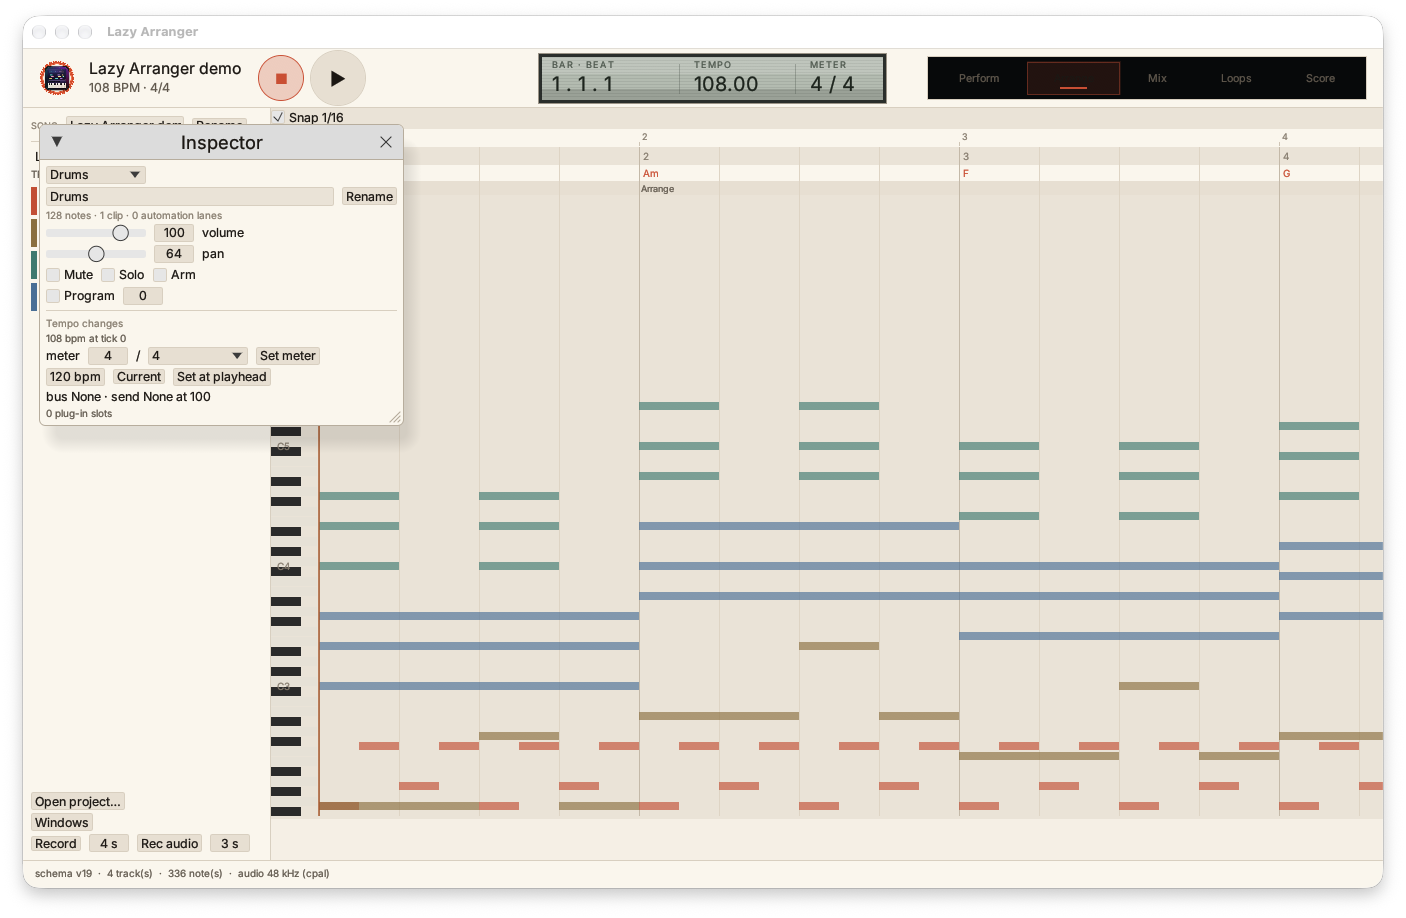
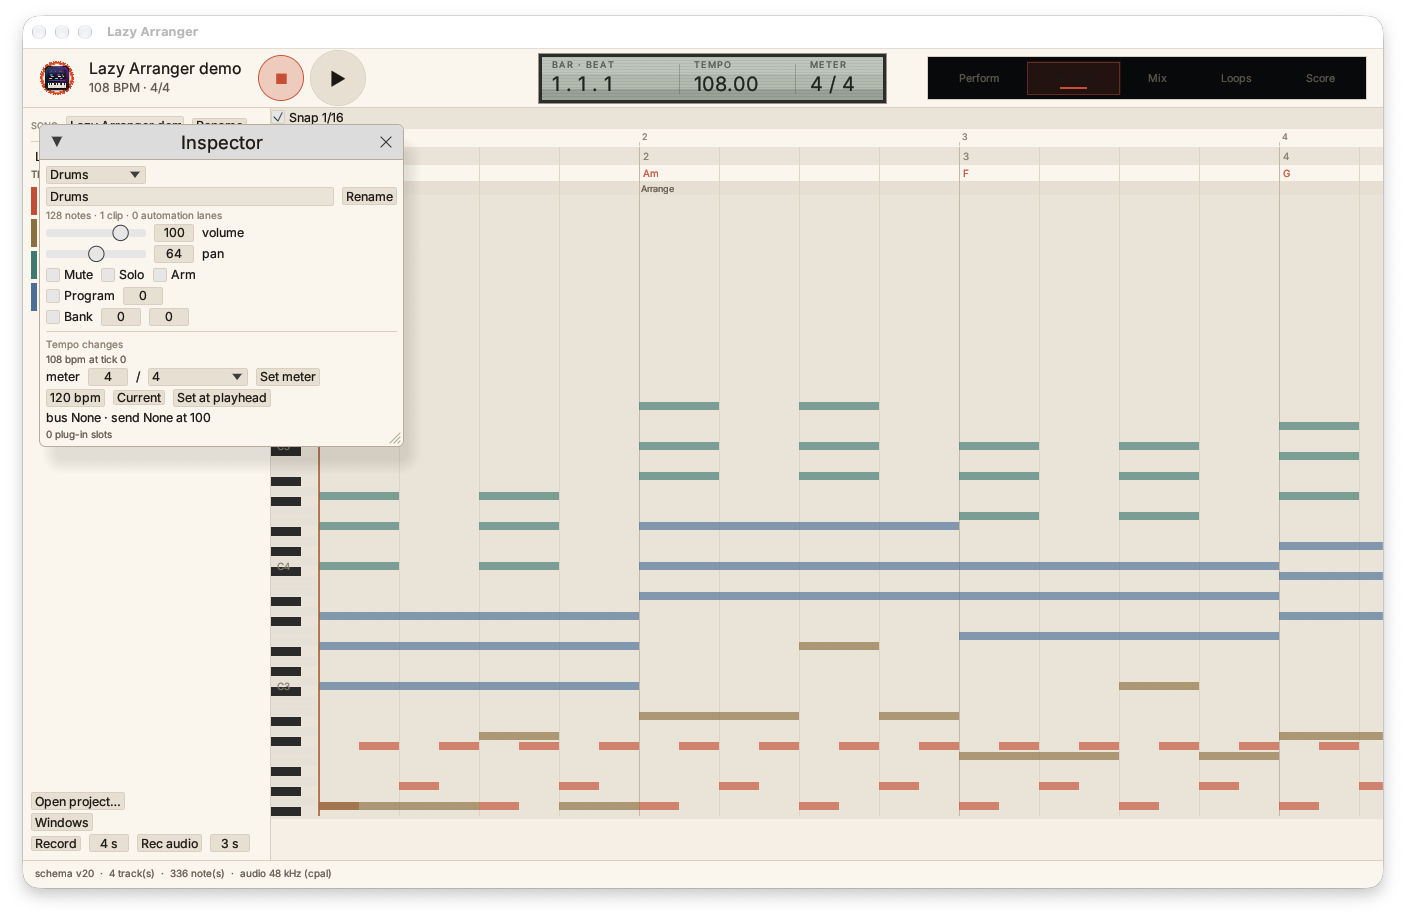
feat(inspector): edit track bank select
Adds Command::SetTrackBank and Editor::set_track_bank, a Bank MSB/LSB row in the
Inspector and an undo test; refreshes the Inspector capture and records the
schema-v20 CI run.

654 tests pass; clippy, fmt and rustdoc clean; the shell ran 6 s without a
panic.

Changed region(s): [[0.0306, 0.3355, 0.3058, 0.5185], [0.0612, 0.9455, 0.2447, 0.976]]

diff --git a/crates/app-commands/src/lib.rs b/crates/app-commands/src/lib.rs
@@ -18,7 +18,7 @@ pub mod style_import;
 
 use music_core::{Channel, Chord, Pitch, TempoMap, Tick, Velocity};
 use project::provenance;
-use project::song::{ChordEvent, Clip, Note, Song, Track};
+use project::song::{BankSelect, ChordEvent, Clip, Note, Song, Track};
 use project::{NoteId, ProjectError, ProjectFile, Severity, TrackId};
 use thiserror::Error;
 
@@ -196,6 +196,13 @@ pub enum Command {
         /// Program number, or `None` to let the exporter choose.
         program: Option<u8>,
     },
+    /// Choose the bank-select pair for a track's program, or clear it.
+    SetTrackBank {
+        /// The track.
+        track: TrackId,
+        /// Bank select, or `None` for the default bank.
+        bank: Option<BankSelect>,
+    },
     /// Replace the song's chords as one edit.
     SetChords {
         /// The new chord list, sorted by tick.
@@ -270,6 +277,7 @@ impl Command {
             Self::RemoveTrack { .. } => "remove track",
             Self::SetChords { .. } => "set chords",
             Self::SetTrackProgram { .. } => "set track program",
+            Self::SetTrackBank { .. } => "set track bank",
             Self::SetTrackFlags { .. } => "set track flags",
             Self::SetTrackGain { .. } => "set track gain",
             Self::SetAutomation { .. } => "set automation",
@@ -885,6 +893,10 @@ impl EditSession {
                 track: *track,
                 program: self.track(*track)?.program,
             },
+            Command::SetTrackBank { track, .. } => Command::SetTrackBank {
+                track: *track,
+                bank: self.track(*track)?.bank,
+            },
             Command::SetChords { .. } => Command::SetChords {
                 chords: self.song().chords.clone(),
             },
@@ -1125,6 +1137,9 @@ impl EditSession {
             Command::SetTrackProgram { track, program } => {
                 self.track_mut(*track)?.program = *program;
             }
+            Command::SetTrackBank { track, bank } => {
+                self.track_mut(*track)?.bank = *bank;
+            }
             Command::SetChords { chords } => {
                 self.project.song.chords = chords.clone();
                 self.project.song.chords.sort_by_key(|event| event.tick);
@@ -1255,6 +1270,10 @@ fn describe(command: &Command) -> String {
         Command::SetTrackProgram { track, program } => match program {
             Some(value) => format!("set track {track} program {value}"),
             None => format!("clear track {track} program"),
+        },
+        Command::SetTrackBank { track, bank } => match bank {
+            Some(bank) => format!("set track {track} bank {}/{}", bank.msb, bank.lsb),
+            None => format!("clear track {track} bank"),
         },
         Command::SetMarkers { markers } => format!("set {} marker(s)", markers.len()),
         Command::SetSceneNames { names } => format!("set {} scene name(s)", names.len()),

diff --git a/apps/desktop/src/app.rs b/apps/desktop/src/app.rs
@@ -2457,6 +2457,7 @@ impl ShellApp {
                     track.soloed,
                     track.armed,
                     track.program,
+                    track.bank,
                     track.notes.len(),
                     track.clips.len(),
                     track.audio.clone(),
@@ -2476,6 +2477,7 @@ impl ShellApp {
             mut soloed,
             mut armed,
             program,
+            bank,
             notes,
             clips,
             audio,
@@ -2580,6 +2582,26 @@ impl ShellApp {
                     if toggled || changed {
                         let value = enabled.then_some(number as u8);
                         if let Err(error) = self.editor.set_track_program(track_id, value) {
+                            self.status = Some(error);
+                        }
+                    }
+                });
+                ui.horizontal(|ui| {
+                    let mut enabled = bank.is_some();
+                    let mut msb = i32::from(bank.map_or(0, |bank| bank.msb));
+                    let mut lsb = i32::from(bank.map_or(0, |bank| bank.lsb));
+                    let toggled = ui.checkbox(&mut enabled, "Bank").changed();
+                    let changed = ui
+                        .add(egui::DragValue::new(&mut msb).range(0..=127))
+                        .changed()
+                        | ui.add(egui::DragValue::new(&mut lsb).range(0..=127))
+                            .changed();
+                    if toggled || changed {
+                        let value = enabled.then_some(project::song::BankSelect {
+                            msb: u8::try_from(msb).unwrap_or(0),
+                            lsb: u8::try_from(lsb).unwrap_or(0),
+                        });
+                        if let Err(error) = self.editor.set_track_bank(track_id, value) {
                             self.status = Some(error);
                         }
                     }

diff --git a/apps/desktop/src/editor.rs b/apps/desktop/src/editor.rs
@@ -867,6 +867,23 @@ impl Editor {
         Ok(())
     }
 
+    /// Sets or clears a track's bank select.
+    ///
+    /// # Errors
+    ///
+    /// Returns a message when the command is rejected.
+    pub fn set_track_bank(
+        &mut self,
+        track: TrackId,
+        bank: Option<project::song::BankSelect>,
+    ) -> Result<(), String> {
+        self.session
+            .apply(app_commands::Command::SetTrackBank { track, bank })
+            .map_err(|error| error.to_string())?;
+        self.dirty = true;
+        Ok(())
+    }
+
     /// Sets or clears a track's keyboard program.
     ///
     /// # Errors
@@ -2030,6 +2047,22 @@ mod tests {
         assert_eq!(editor.song().tracks[0].program, Some(48));
         editor.set_track_program(track, None).expect("clear");
         assert!(editor.song().tracks[0].program.is_none());
+        editor
+            .set_track_bank(track, Some(project::song::BankSelect { msb: 63, lsb: 1 }))
+            .expect("bank");
+        assert_eq!(
+            editor.song().tracks[0].bank,
+            Some(project::song::BankSelect { msb: 63, lsb: 1 })
+        );
+        editor.set_track_bank(track, None).expect("clear bank");
+        assert!(editor.song().tracks[0].bank.is_none());
+        editor.undo();
+        assert_eq!(
+            editor.song().tracks[0].bank,
+            Some(project::song::BankSelect { msb: 63, lsb: 1 })
+        );
+        assert!(editor.undo());
+        assert_eq!(editor.song().tracks[0].program, None);
         assert!(editor.undo());
         assert_eq!(editor.song().tracks[0].program, Some(48));
     }

diff --git a/docs/architecture/contracts.md b/docs/architecture/contracts.md
@@ -20,7 +20,7 @@ section below is a row, so nothing is skipped. Status: **verified**,
 | 11 | Beat view | partial | Four drum rows by sixteen steps with off/soft/normal/loud cycling, read from and written to a bar as one undo step, B opens the grid. rows have C/P/X copy, paste and clear buttons (model row/set_row/clear_row); patterns cover 1 or 2 bars with the span cleared and rewritten; Put-in-bars writes the pattern across four bars as one edit; no scrolling long clips |
 | 12 | Clip grid | partial | Scenes of N bars, slots, a bar-quantised launcher with waiting/cancel/log, scene recording to the timeline as undoable edits, `get_clip_grid`. Loops view shows scene rows and track slots, queues on click and records a take. The grid shows track column headers and a Rename button; right-click a slot to clear, set 1/2 bars or copy to the playhead. Scene names persist and can be renamed; slot length, clear and copy-to-tick work and are exposed as `edit_slot`. No audio loops or Launchkey mapping |
 | 13 | Smart chords | partial | Chord parsing, transposition, progression text, roman numerals in the chosen key, chord lane with K entry, 16 key-aware pads, and a suggestion function with dialog buttons. Reharmonize rules and dialog. Find Chords from the Music (pitch-class recognition, slash bass). Inversions/voicings as ascending pitch sets with A/B WAV audition (`voicing C --out-dir` wrote a.wav and b.wav). A Settings toggle detects chords after MIDI recording and a Launchkey pad preset maps notes 36-51 to pad audition; no real-time chord capture |
-| 14 | Styles | partial | Yamaha open, import, compile on chords, **save container (SFF1/SFF2, real 15-section style rewritten)**. Track program and bank-select events now round-trip through the SMF reader/writer and the style writer; Korg, live sections, rules editor UI, style-from-clips, XG voices and the SInt setup region remain absent. Catalog resolution by number or name (`style-resolve`) matched a real library entry; a PCG scanner now recognises the KORG marker and model name only, with no program or combi decoding |
+| 14 | Styles | partial | Yamaha open, import, compile on chords, **save container (SFF1/SFF2, real 15-section style rewritten)**. Track program and bank-select events now round-trip through the SMF reader/writer and the style writer and are editable from the Inspector Bank row; Korg, live sections, rules editor UI, style-from-clips, XG voices and the SInt setup region remain absent. Catalog resolution by number or name (`style-resolve`) matched a real library entry; a PCG scanner now recognises the KORG marker and model name only, with no program or combi decoding |
 | 15 | Style from Audio and Link | partial | Link→monophonic MIDI; no style output, no match scores |
 | 16 | Score view | partial | MusicXML export/import with `<harmony>` chords, drum instrument ids, `<sound dynamics>`, slurs and a round-trip audit. On the demo tracks, chords (16), lyrics (2), marks (2), drums and the pitched detail are preserved (186 = 186 after merging 22 ties). A style-derived project with mixed drum/pitched tracks and overlapping notes now keeps all 1,423 pitched notes (counts and tie merges), but one chord-group note starts at a different tick inside an overlap; `<backup>` was added for overlaps, and MusicXML still cannot express every simultaneous overlap we hold, which is recorded as a limitation plus a toolkit-independent layout engine (pages, systems, measures, positioned notes, CLI report). An egui page canvas renders staff lines, barlines, noteheads, page navigation and zoom from the layout. Key detection, spelling, accidentals, canvas, vector PDF, per-pitch ties and a lyric line (40-bar two-page acceptance test). Dynamics and articulations are marks in schema v11, exchanged as MusicXML directions and drawn by both renderers. Note entry: with Note entry enabled, a click on the score inserts a note at a quarter-quantised tick and the staff pitch through one undoable command. A grand-staff toggle, beams, tuplet brackets, ties, rests in gaps/empty measures, augmentation dots (notes and rests) and articulation glyphs now draw on canvas and PDF; phrase slurs (schema v18) draw as curves, are exposed by `get_slurs`/`set_slurs` and round-trip as MusicXML `<slur>` notations; a drum track gets a one-line percussion staff with x noteheads on canvas and PDF; lyrics shift right when crowded; chord names are drawn above the staff on canvas and PDF, common major/minor/seventh chords get guitar frames (slash chords or unlisted qualities get none); the Score view has a path field, Save PDF and a Print dialog with printer, copies and page ranges via `lp`; chord names and guitar frames draw on canvas and PDF with a top reserve, the song title draws inside the page margin, one lyric per chord tick, PDF text uses the dark fill; four 4/4 measures fit a system and the song meter draws at each system start, measure numbers draw above the staff, `docs/audit/score-page.png` shows the balanced layout, and a headless test checks canvas text; and a headless egui test verifies the canvas title, chord name and measure number shapes; dense rhythms widen their measures and crowded accidentals shift left; Shift-drag resizes a note's duration (quarter-quantised); no vertical rest/dot collision avoidance; printing uses `lp`, not an OS print panel |
 | 17 | Mixer and buses | partial | Tracks carry fader, pan, mute/solo and automation; buses (schema v13) have volume and pan, tracks route to a bus and can send a copy at a level, and the render sums bus buffers after the tracks. Mix view shows bus rows with volume/pan/remove and an Add bus action plus a per-track routing picker (`docs/audit/mix.png`). Mix rows add a send-bus picker and send-level slider over the same routing command; Loops slots have a right-click menu for clear, one-bar length and copy to playhead. Master gain and a soft limiter apply to playback and `export-audio` (`--gain-db`, `--no-limiter`), and the export prints peak/RMS; master reverb and chorus wet amounts (feedback-delay reverb and modulated-delay chorus, applied after gain before the limiter) are settable in the Mixer and Settings and used by playback/`export-audio --reverb/--chorus`; master peak/RMS bars and per-track peak badges draw while playing (track levels come from offline stems; other master effects absent) |
@@ -1021,3 +1021,7 @@ keeps CC0/CC32 before the first program and the writer emits them before the
 program; the style writer therefore preserves bank select too. A version 19
 document migrates with no bank, and the SMF/style round-trip tests assert
 `BankSelect { msb: 63, lsb: 1 }`.
+
+`Command::SetTrackBank` sets/clears `Track.bank`; the Inspector shows a Bank row
+with MSB/LSB drag values and the editor test covers undo. The refreshed capture
+is `docs/audit/inspector.png`.

diff --git a/docs/audit/cpp-features-crosscheck.md b/docs/audit/cpp-features-crosscheck.md
@@ -20,7 +20,7 @@ section below is a row, so nothing is skipped. Status: **verified**,
 | 11 | Beat view | partial | Four drum rows by sixteen steps with off/soft/normal/loud cycling, read from and written to a bar as one undo step, B opens the grid. rows have C/P/X copy, paste and clear buttons (model row/set_row/clear_row); patterns cover 1 or 2 bars with the span cleared and rewritten; Put-in-bars writes the pattern across four bars as one edit; no scrolling long clips |
 | 12 | Clip grid | partial | Scenes of N bars, slots, a bar-quantised launcher with waiting/cancel/log, scene recording to the timeline as undoable edits, `get_clip_grid`. Loops view shows scene rows and track slots, queues on click and records a take. The grid shows track column headers and a Rename button; right-click a slot to clear, set 1/2 bars or copy to the playhead. Scene names persist and can be renamed; slot length, clear and copy-to-tick work and are exposed as `edit_slot`. No audio loops or Launchkey mapping |
 | 13 | Smart chords | partial | Chord parsing, transposition, progression text, roman numerals in the chosen key, chord lane with K entry, 16 key-aware pads, and a suggestion function with dialog buttons. Reharmonize rules and dialog. Find Chords from the Music (pitch-class recognition, slash bass). Inversions/voicings as ascending pitch sets with A/B WAV audition (`voicing C --out-dir` wrote a.wav and b.wav). A Settings toggle detects chords after MIDI recording and a Launchkey pad preset maps notes 36-51 to pad audition; no real-time chord capture |
-| 14 | Styles | partial | Yamaha open, import, compile on chords, **save container (SFF1/SFF2, real 15-section style rewritten)**. Track program and bank-select events now round-trip through the SMF reader/writer and the style writer; Korg, live sections, rules editor UI, style-from-clips, XG voices and the SInt setup region remain absent. Catalog resolution by number or name (`style-resolve`) matched a real library entry; a PCG scanner now recognises the KORG marker and model name only, with no program or combi decoding |
+| 14 | Styles | partial | Yamaha open, import, compile on chords, **save container (SFF1/SFF2, real 15-section style rewritten)**. Track program and bank-select events now round-trip through the SMF reader/writer and the style writer and are editable from the Inspector Bank row; Korg, live sections, rules editor UI, style-from-clips, XG voices and the SInt setup region remain absent. Catalog resolution by number or name (`style-resolve`) matched a real library entry; a PCG scanner now recognises the KORG marker and model name only, with no program or combi decoding |
 | 15 | Style from Audio and Link | partial | Link→monophonic MIDI; no style output, no match scores |
 | 16 | Score view | partial | MusicXML export/import with `<harmony>` chords, drum instrument ids, `<sound dynamics>`, slurs and a round-trip audit. On the demo tracks, chords (16), lyrics (2), marks (2), drums and the pitched detail are preserved (186 = 186 after merging 22 ties). A style-derived project with mixed drum/pitched tracks and overlapping notes now keeps all 1,423 pitched notes (counts and tie merges), but one chord-group note starts at a different tick inside an overlap; `<backup>` was added for overlaps, and MusicXML still cannot express every simultaneous overlap we hold, which is recorded as a limitation plus a toolkit-independent layout engine (pages, systems, measures, positioned notes, CLI report). An egui page canvas renders staff lines, barlines, noteheads, page navigation and zoom from the layout. Key detection, spelling, accidentals, canvas, vector PDF, per-pitch ties and a lyric line (40-bar two-page acceptance test). Dynamics and articulations are marks in schema v11, exchanged as MusicXML directions and drawn by both renderers. Note entry: with Note entry enabled, a click on the score inserts a note at a quarter-quantised tick and the staff pitch through one undoable command. A grand-staff toggle, beams, tuplet brackets, ties, rests in gaps/empty measures, augmentation dots (notes and rests) and articulation glyphs now draw on canvas and PDF; phrase slurs (schema v18) draw as curves, are exposed by `get_slurs`/`set_slurs` and round-trip as MusicXML `<slur>` notations; a drum track gets a one-line percussion staff with x noteheads on canvas and PDF; lyrics shift right when crowded; chord names are drawn above the staff on canvas and PDF, common major/minor/seventh chords get guitar frames (slash chords or unlisted qualities get none); the Score view has a path field, Save PDF and a Print dialog with printer, copies and page ranges via `lp`; chord names and guitar frames draw on canvas and PDF with a top reserve, the song title draws inside the page margin, one lyric per chord tick, PDF text uses the dark fill; four 4/4 measures fit a system and the song meter draws at each system start, measure numbers draw above the staff, `docs/audit/score-page.png` shows the balanced layout, and a headless test checks canvas text; and a headless egui test verifies the canvas title, chord name and measure number shapes; dense rhythms widen their measures and crowded accidentals shift left; Shift-drag resizes a note's duration (quarter-quantised); no vertical rest/dot collision avoidance; printing uses `lp`, not an OS print panel |
 | 17 | Mixer and buses | partial | Tracks carry fader, pan, mute/solo and automation; buses (schema v13) have volume and pan, tracks route to a bus and can send a copy at a level, and the render sums bus buffers after the tracks. Mix view shows bus rows with volume/pan/remove and an Add bus action plus a per-track routing picker (`docs/audit/mix.png`). Mix rows add a send-bus picker and send-level slider over the same routing command; Loops slots have a right-click menu for clear, one-bar length and copy to playhead. Master gain and a soft limiter apply to playback and `export-audio` (`--gain-db`, `--no-limiter`), and the export prints peak/RMS; master reverb and chorus wet amounts (feedback-delay reverb and modulated-delay chorus, applied after gain before the limiter) are settable in the Mixer and Settings and used by playback/`export-audio --reverb/--chorus`; master peak/RMS bars and per-track peak badges draw while playing (track levels come from offline stems; other master effects absent) |

diff --git a/docs/audit/parity.md b/docs/audit/parity.md
@@ -15,7 +15,7 @@ pass.
 
 Verified by tests or offline evidence: project schema v20 with migrations,
 undo/inverses and validation; legacy import; Yamaha style parse/import/compile
-and SFF1/SFF2 writing with track programs; clip model, slots, launcher and take recording; chord
+and SFF1/SFF2 writing with track programs and bank select; clip model, slots, launcher and take recording; chord
 parsing, roman numerals, reharmonisation and find-chords; doctor/fit with A/B,
 groove files, forms and transitions; score layout with ties, beams, tuplets,
 rests, lyrics (spaced), slurs, percussion, chord symbols, guitar frames,

diff --git a/docs/audit/ci-windows-failures.md b/docs/audit/ci-windows-failures.md
@@ -61,3 +61,6 @@ and tests on every platform; no audio device was exercised.
 
 Run [45162107856](https://github.com/nhth-mibu/Lazy-Arranger-v2/actions/runs/45162107856)
 on `e999804` (master meter) passed ubuntu 1m27s, windows 2m46s, macos 1m39s.
+
+Run [45164208185](https://github.com/nhth-mibu/Lazy-Arranger-v2/actions/runs/45164208185)
+on `fbead10` (schema v20) passed ubuntu 1m24s, windows 2m49s, macos 1m41s.
